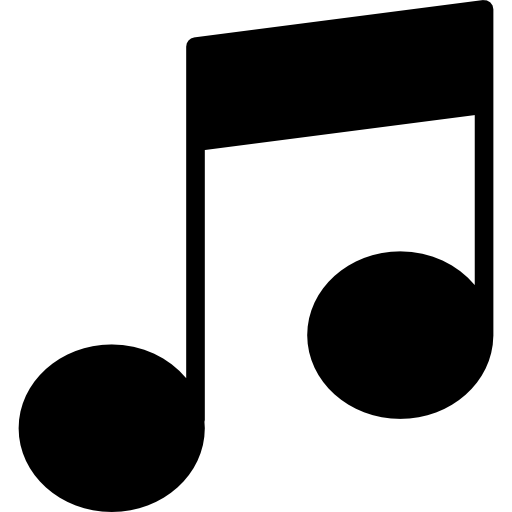
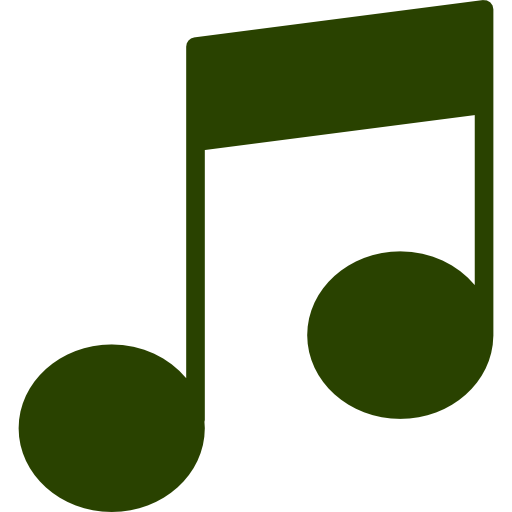
Changed default directory to $Home: e.g C://Users/tadachi/..
- Updated README.md
- Fixed misc typos.
- Change default minimum height of BrowserWindow.
- Added Icon color change.

diff --git a/index.html b/index.html
@@ -13,14 +13,14 @@
 
       <div class="item-last" v-for="(url,index) in urls">
         <input class="inputs" ref="input" v-on:input="updateUrl(index, $event.target.value)" v-on:blur="updateUrl(index, $event.target.value)" v-bind:value="url"
-          placeholder="Youtube URL.." size="55">
+          placeholder=" Youtube URL.." size="55">
         <a class="text-button-light" href="#" v-on:click="addInput()">Add</a>
         <a class="text-button-light" href="#" v-on:click="removeInput(index)">Remove</a>
         <span class="error" v-if="line_errors[index].error" style="margin-left: 5px;">{{line_errors[index].msg}}</span>
         <span class="valid" v-if="!line_errors[index].error" style="margin-left: 5px;">{{line_errors[index].msg}}</span>
       </div>
 
-      <textarea class="inputs item-last" placeholder="youtube urls" v-on:input="updateBatch($event.target.value)" v-model="batch" rows="5" style="resize: vertical; margin: 5px;"></textarea>
+      <textarea class="inputs item-last" placeholder=" Add Youtube URLs that are line feed delimited.." v-on:input="updateBatch($event.target.value)" v-model="batch" rows="5" style="resize: vertical; margin: 5px;"></textarea>
 
       <div class="item"><a class="text-button-light" href="#" v-on:click="addUrls()">Add Downloads</a></div>
       <div class="item"><a class="text-button-light" href="#" v-on:click="clearAllFiles()">Remove all Downloads</a></div>

diff --git a/renderer.ts b/renderer.ts
@@ -11,6 +11,7 @@ import shortid = require('shortid');
 import path = require('path');
 import Promise = require('bluebird');
 import bytes = require('bytes');
+import os = require('os');
 
 // Audl
 import { getInfo, YTAudioFileMeta, valid_youtube_match } from "./audl";
@@ -28,6 +29,7 @@ const { dialog } = electron.remote;
 const { app } = electron.remote;
 const { shell } = electron.remote;
 const BASEPATH: string = app.getAppPath();
+const HOMEDIR: string = os.homedir();
 
 const NOT_VALID_YOUTUBE_URL: string = "Not a Valid Youtube URL.";
 const VALID_YOUTUBE_URL: string = "Valid Youtube URL.";
@@ -202,7 +204,7 @@ class AudlFileMeta {
 
 const store: any = new Vuex.Store({
     state: {
-        folders: { default_folder: BASEPATH },
+        folders: { default_folder: HOMEDIR },
         files: new Array<AudlFileMeta>(),
         urls: [""]
     },

diff --git a/renderer.js b/renderer.js
@@ -12,6 +12,7 @@ var shortid = require("shortid");
 var path = require("path");
 var Promise = require("bluebird");
 var bytes = require("bytes");
+var os = require("os");
 // Audl
 var audl_1 = require("./audl");
 // Vue
@@ -24,6 +25,7 @@ var dialog = electron.remote.dialog;
 var app = electron.remote.app;
 var shell = electron.remote.shell;
 var BASEPATH = app.getAppPath();
+var HOMEDIR = os.homedir();
 var NOT_VALID_YOUTUBE_URL = "Not a Valid Youtube URL.";
 var VALID_YOUTUBE_URL = "Valid Youtube URL.";
 var Progress = (function () {
@@ -161,7 +163,7 @@ var AudlFileMeta = (function () {
 }());
 var store = new Vuex.Store({
     state: {
-        folders: { default_folder: BASEPATH },
+        folders: { default_folder: HOMEDIR },
         files: new Array(),
         urls: [""]
     },

diff --git a/main.js b/main.js
@@ -15,7 +15,7 @@ let mainWindow
 
 function createWindow () {
   // Create the browser window.
-  mainWindow = new BrowserWindow({minwidth: 800, minheight: 600, maxWidth: 800, icon: __dirname + './icons/music-player.png'})
+  mainWindow = new BrowserWindow({minwidth: 800, minheight: 1280, maxWidth: 800, icon: __dirname + './icons/music-player.png'})
 
   // and load the index.html of the app.
   mainWindow.loadURL(url.format({

diff --git a/README.md b/README.md
@@ -1,3 +1,6 @@
+audl-gui
+=========
+
 #### Description
 
 Quickly and conveniently download music, podcasts or audio from Youtube.
@@ -5,6 +8,8 @@ Quickly and conveniently download music, podcasts or audio from Youtube.
 Has options for batch downloading and features an easy to use, simple GUI.
 
 Special thanks to [fent](https://github.com/fent/node-ytdl).
+
+![Screenshot](screenshot-01.png)
 
 #### Debugging
 
